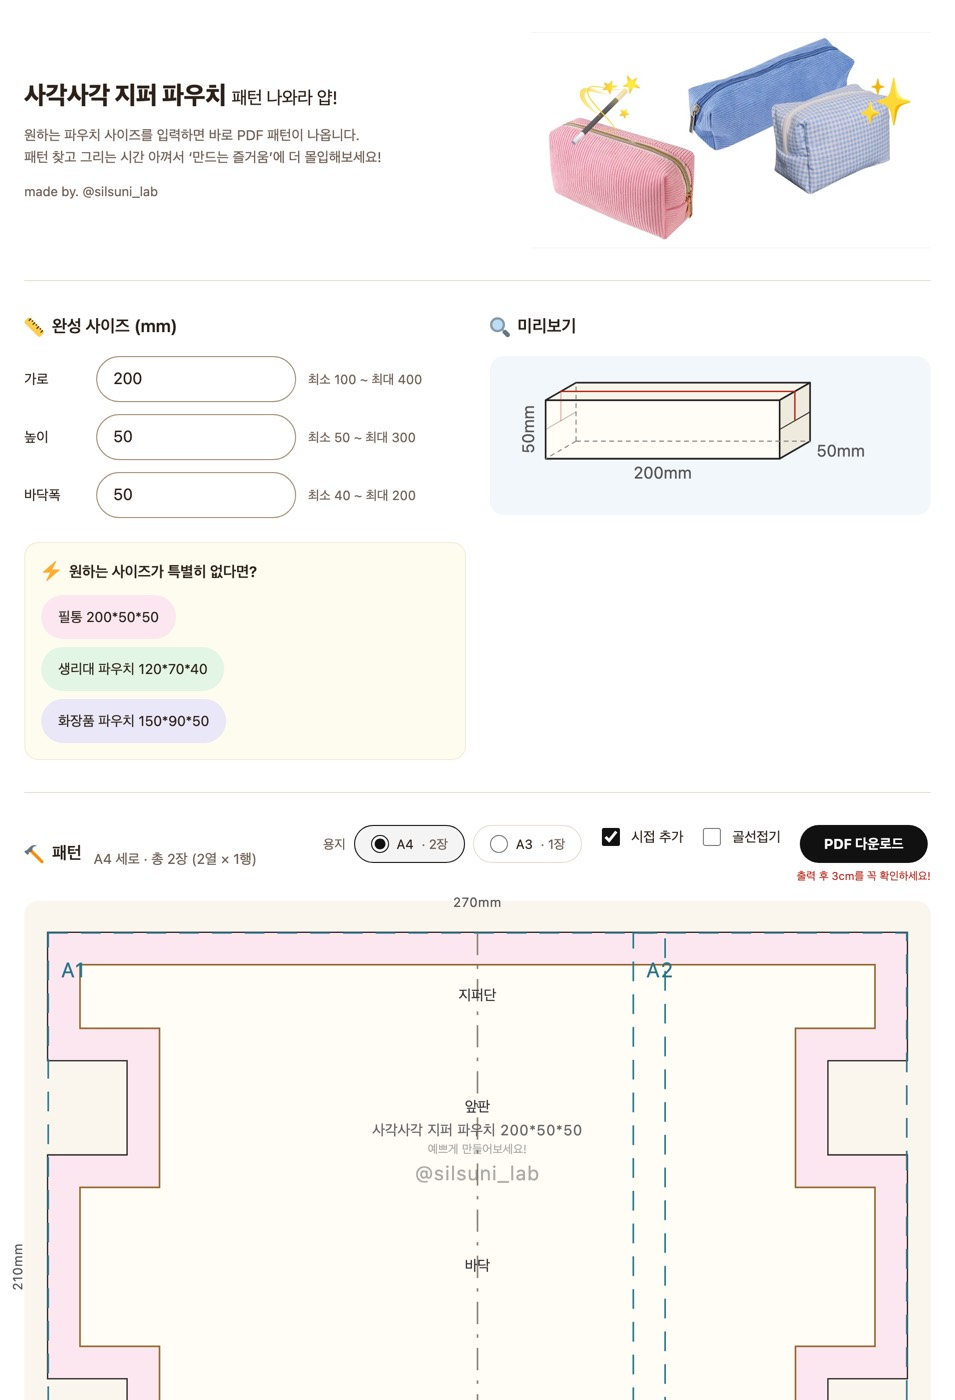
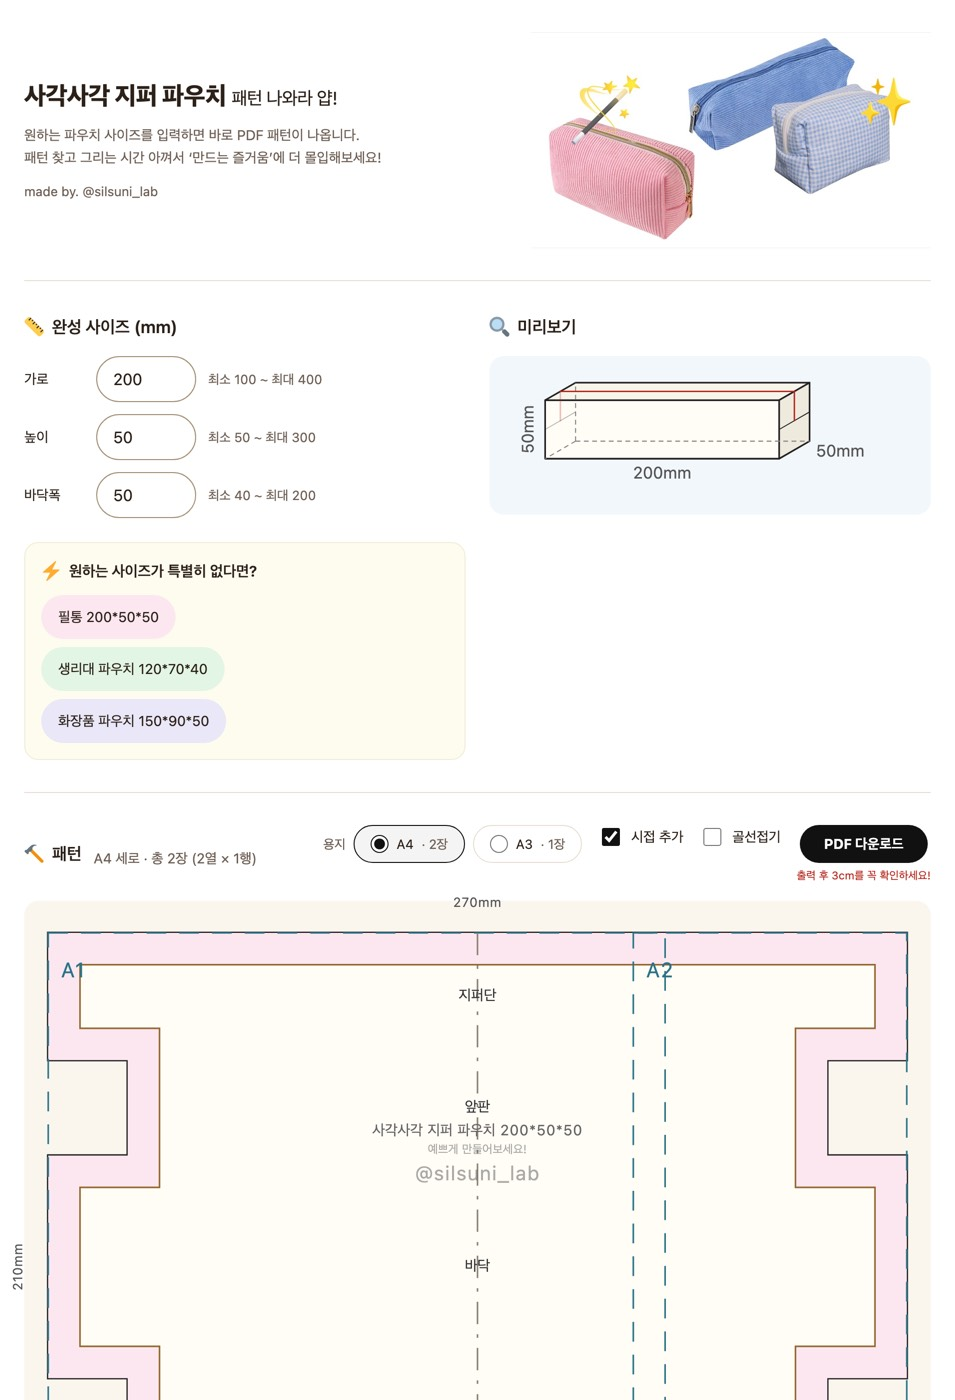
치수 입력칸 폭을 절반으로 줄이기
가로·높이·바닥폭 입력칸의 최대 폭을 200px에서 100px로 줄였다.

세 자리가 최대인 자리다. 400을 넣어도 알약 좌우 여백까지 더해 100px
안에 들어가고, 포커스했을 때 나오는 화살표 버튼 자리도 남는다. 200px
일 때는 절반이 빈칸이라 숫자 몇 개 받는 칸치고 과해 보였다.

폭이 줄면서 라벨-입력칸-안내가 눈으로 한 덩어리로 묶인다. 전에는
입력칸이 넓어 '최소 100 ~ 최대 400'이 멀찍이 떨어져 있었다.

좁은 화면(400px 이하)에서는 그대로 남는 폭을 다 쓰게 두었다. 거기서
100px로 묶으면 옆이 허전하고, 손가락으로 누를 자리도 좁아진다.

화면을 바꿨으므로 README 스크린샷도 다시 찍었다. 어제 적어 둔
'README 스크린샷' 절의 명령을 그대로 썼다.

Claude-Session: https://claude.ai/code/session_01DNhRybG4ijRiNtsyvAAKYr

diff --git a/src/style.css b/src/style.css
@@ -179,7 +179,12 @@ body {
 .inputs { display: grid; gap: var(--space-3); }
 .input-row {
   display: grid;
-  grid-template-columns: 60px minmax(0, 200px) auto;
+  /*
+   * 입력칸 폭은 들어갈 값에 맞춘다. 세 자리(최대 400)에 알약 좌우 여백을
+   * 더해도 100px이면 넉넉하다. 200px일 때는 빈칸이 절반이라 숫자 몇 개
+   * 넣는 자리치고 과해 보였다.
+   */
+  grid-template-columns: 60px minmax(0, 100px) auto;
   justify-content: start;
   gap: var(--space-3);
   align-items: center;
